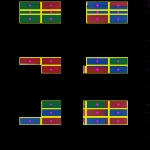
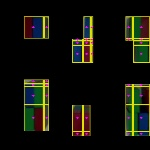
server

diff --git a/MakeMap.py b/MakeMap.py
@@ -5,7 +5,7 @@ from matplotlib import pyplot as plt
 
 class Realize:
     def __init__(self):
-        self.img = cv2.imread('./container/16.jpg')
+        self.img = cv2.imread('./container/66.jpg')
         self.img = cv2.resize(self.img, dsize=(400, 400), interpolation=cv2.INTER_AREA)
 
         # 이미지의 기본 속성 (행, 열, channel 정보)
@@ -17,7 +17,7 @@ class Realize:
         self.drawing_board = self.img.copy()  # 흰색으로만 이미지 그리기
         self.cut_img = self.img.copy()
 
-
+        self.img_result = self.img.copy()
 
     def contour(self):
 
@@ -96,6 +96,20 @@ class Realize:
         # cv2.waitKey(0)
         #
 
+    ########## 밀반입자의 위치를 반환################
+    def find_target_location(self):
+        self.img_result2 = cv2.resize(self.img_result, (150, 150))
+        gray = cv2.cvtColor(self.img_result2, cv2.COLOR_BGR2GRAY)
+        for i in range(gray.shape[0]):
+            for j in range(gray.shape[1]):
+                if gray[i, j] == 1:
+                    x = j
+                    y = i
+        print("target", x, y)
+        return x, y
+
+
+
     def make_contour(self):
         imgray = cv2.cvtColor(self.img_result, cv2.COLOR_BGR2GRAY)
         for i in range(4, imgray.shape[0]):
@@ -111,7 +125,6 @@ class Realize:
         contours, hierarchy = cv2.findContours(self.canny, cv2.RETR_EXTERNAL,
                                                cv2.CHAIN_APPROX_SIMPLE)
         for i in range(0, len(contours)):
-            # 각 등고선마다의 사각형 포인트를 구해, 일정 크기 이상의 사각형만을 반찬으로써 도출
             cnt = contours[i]
             epsilon = 0.005 * cv2.arcLength(cnt, True)
             approx = cv2.approxPolyDP(cnt, epsilon, True)
@@ -129,7 +142,6 @@ class Realize:
         # cv2.imshow('original222', imgray)
         # cv2.imshow('original3', self.img_result)
         # cv2.waitKey(0)
-
 
 
 
@@ -224,7 +236,7 @@ class Realize:
                     x_gap = x_dot[j+1] - x_dot[j]
                     cX, cY = abs(int(x_dot[j] + x_gap / 2)), abs(int(y_dot[i] + y_gap / 2))
                     cv2.line(self.img_result, (cX, cY), (cX, cY), (255, 0, 255), 4)
-                    if 135 <= imm[cY, cX] <= 255:
+                    if 100 <= imm[cY, cX] <= 255:
                         # 보드판은 검정 사각형으로 그림그리기
                         cv2.rectangle(self.img_result, (x_dot[j], y_dot[i]), (x_dot[j+1], y_dot[i+1]), (0, 0, 0), -1)
                         #print("보드판:", imm[cY, cX])
@@ -234,11 +246,7 @@ class Realize:
         cv2.waitKey(0)
 
 
-########## 밀반입자의 위치를 반환################
-    def find_target_location(self):
-        x = 0
-        y = 0
-        return x, y
+
 
 ############## 마지막 맵 ################
     def draw_result_map(self):
@@ -280,8 +288,5 @@ class Realize:
 
 if __name__ =='__main__':
     realize = Realize()
-    #realize.contour()
-    #realize.delete_destroy()
-    #realize.make_contour()
-    #realize.pixel_content()
     realize.draw_result_map()
+    realize.find_target_location()

diff --git a/Find_path.py b/Find_path.py
@@ -7,7 +7,6 @@ class Find_path:
         # 객체 생성
         self.makeMap = Realize()
         self.target_x, self.target_y = self.makeMap.find_target_location()  # 밀입자의 좌표
-        self.target_x, self.target_y = 32, 149  # 밀입자의 좌표
         self.map, self.map_str = self.makeMap.draw_result_map()  # 맵 만들기
 
         # check 맵 초기화
@@ -61,8 +60,7 @@ class Find_path:
             x, y = self.path[p][0], self.path[p][1]
             #self.map_str[y] = self.map_str[y][:x-1] + self.arrows[p] + self.map_str[y][x+1:]
             cv2.line(img, (x, y), (x, y), (255, 0, 255), 2)
-        self.target_x, self.target_y = 32, 149  # 밀입자의 좌표
-        cv2.line(img, (self.target_x, self.target_y), (self.target_x, self.target_y), (255, 0, 255), 5)
+        #cv2.line(img, (self.target_x, self.target_y), (self.target_x, self.target_y), (255, 255, 255), 5)
 
         cv2.imshow('test', img)
         cv2.waitKey(0)

diff --git a/checkColor_by_mouse.py b/checkColor_by_mouse.py
@@ -62,7 +62,7 @@ cv2.setMouseCallback('img_color', mouse_callback)
 
 
 while(True):
-    img_color = cv2.imread('./container/18.jpg')
+    img_color = cv2.imread('./container/66.jpg')
     img_color = cv2.resize(img_color, dsize=(300, 300))
 
     # 원본 영상을 HSV 영상으로 변환한다
